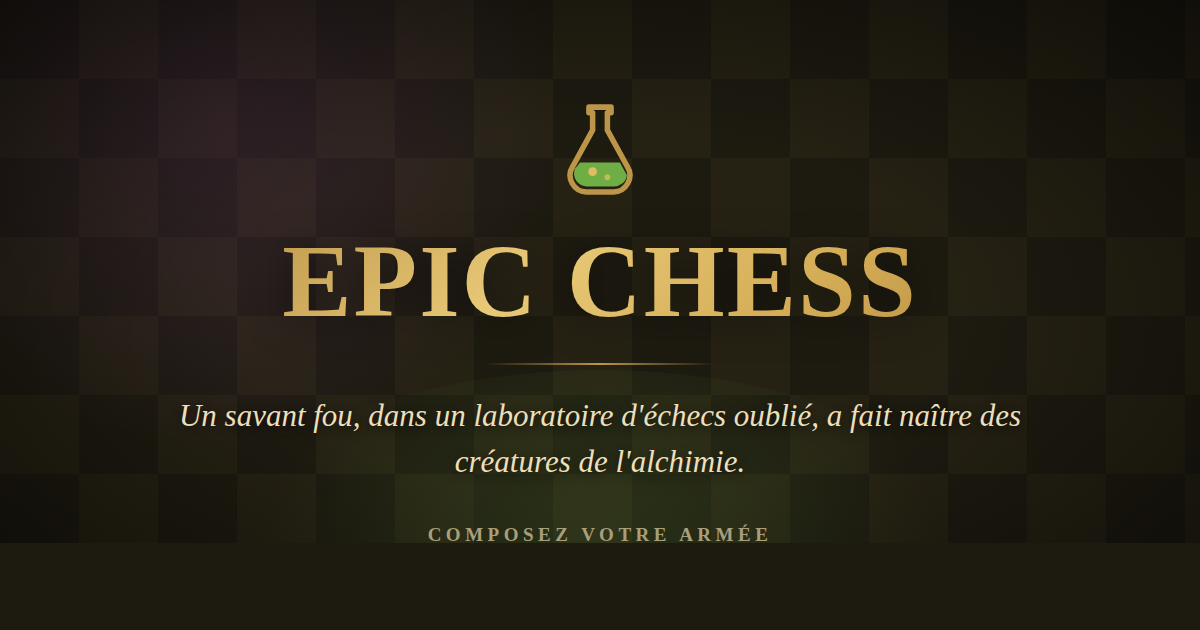
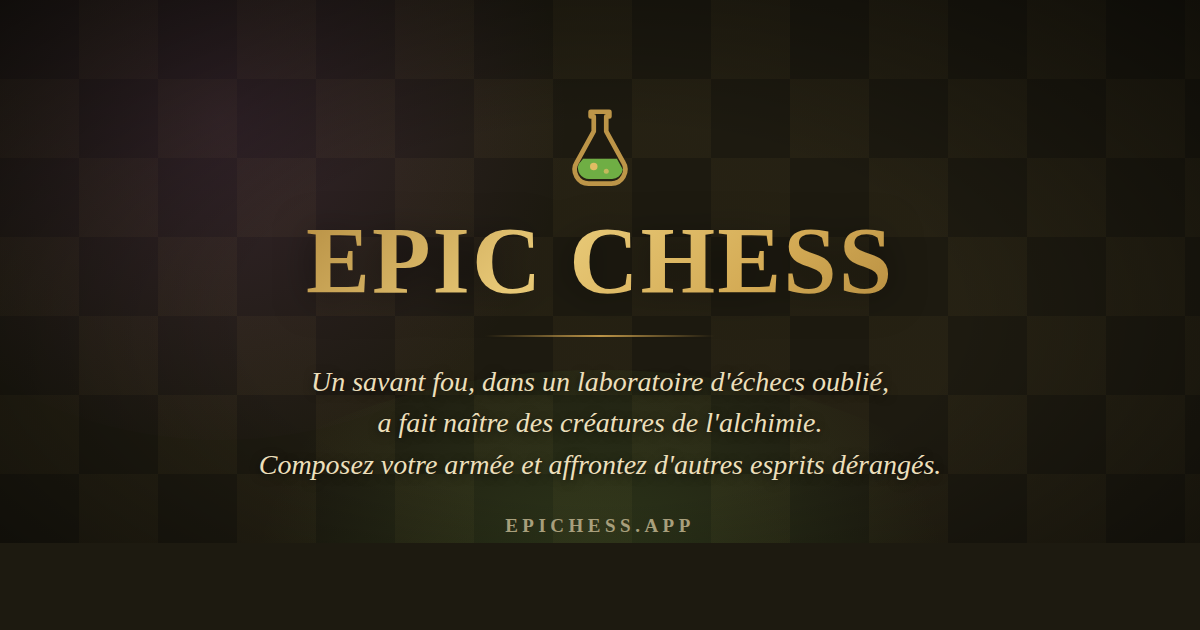
Reecrit la fiche de presentation et corrige les assets
Fiche de presentation reformulee : description resserree, et les cinq
classes decrites par ce qui les distingue en jeu plutot que par des
exemples de creatures. La Brute devient "deplacement puissant, pouvoir
faible" et le Sorcier "capacites avancees, mobilite reduite", ce qui
contredisait la formulation precedente : le JSON-LD et llms.txt sont
mis a jour en consequence, sans quoi les moteurs de reponse citeraient
des definitions fausses.

Reponse a "Comment compose-t-on son armee ?" raccourcie, dans le HTML
visible et dans le FAQPage (les deux doivent rester identiques).

Tirets longs retires de tout le texte public (fiche, FAQ, JSON-LD,
llms.txt, title et Open Graph). Ceux des commentaires de code sont
conserves, le reste du depot les utilise deja.

og-image.png : la seconde phrase de l'accroche etait absente. Les deux
phrases sont maintenant affichees sur trois lignes a coupure forcee, et
le domaine remplace le libelle redondant en bas.

apple-touch-icon.png : l'asset etait tronque. En cause, le navigateur
headless qui elargit silencieusement les fenetres de moins de ~500 px et
produisait une capture coupee. Rendu en 360 px avec un facteur d'echelle
de 0,5 pour un 180x180 correct ; le piege est note dans le README.
L'icone est conservee car elle sert a l'ecran d'accueil iOS.

Claude-Session: https://claude.ai/code/session_01Nt2syRCxgwHz2NTJgqYGfx

diff --git a/index.html b/index.html
@@ -12,7 +12,7 @@
      Le bloc JSON-LD en bas de ce <head> sert aux résultats enrichis et
      aux moteurs de réponse IA (ChatGPT, Perplexity, AI Overviews).
      ============================================================ -->
-<title>Epic Chess — variante d'échecs alchimique : composez votre armée</title>
+<title>Epic Chess, variante d'échecs alchimique : composez votre armée</title>
 <meta name="description" content="Un savant fou, dans un laboratoire d'échecs oublié, a fait naître des créatures de l'alchimie. Composez votre armée et affrontez d'autres esprits dérangés."/>
 <link rel="canonical" href="https://epichess.app/"/>
 <meta name="robots" content="index,follow,max-snippet:-1,max-image-preview:large,max-video-preview:-1"/>
@@ -21,7 +21,7 @@
 
 <!-- Open Graph / Twitter — aperçus de partage (Discord, X, WhatsApp, iMessage) -->
 <meta property="og:site_name" content="Epic Chess"/>
-<meta property="og:title" content="Epic Chess — variante d'échecs alchimique"/>
+<meta property="og:title" content="Epic Chess, variante d'échecs alchimique"/>
 <meta property="og:description" content="Un savant fou, dans un laboratoire d'échecs oublié, a fait naître des créatures de l'alchimie. Composez votre armée et affrontez d'autres esprits dérangés."/>
 <meta property="og:type" content="website"/>
 <meta property="og:url" content="https://epichess.app/"/>
@@ -29,9 +29,9 @@
 <meta property="og:image" content="https://epichess.app/og-image.png"/>
 <meta property="og:image:width" content="1200"/>
 <meta property="og:image:height" content="630"/>
-<meta property="og:image:alt" content="Epic Chess — un échiquier alchimique dans un laboratoire abandonné"/>
+<meta property="og:image:alt" content="Epic Chess, un échiquier alchimique dans un laboratoire abandonné"/>
 <meta name="twitter:card" content="summary_large_image"/>
-<meta name="twitter:title" content="Epic Chess — variante d'échecs alchimique"/>
+<meta name="twitter:title" content="Epic Chess, variante d'échecs alchimique"/>
 <meta name="twitter:description" content="Un savant fou, dans un laboratoire d'échecs oublié, a fait naître des créatures de l'alchimie. Composez votre armée et affrontez d'autres esprits dérangés."/>
 <meta name="twitter:image" content="https://epichess.app/og-image.png"/>
 
@@ -59,7 +59,7 @@
       "@id": "https://epichess.app/#game",
       "name": "Epic Chess",
       "url": "https://epichess.app/",
-      "description": "Epic Chess est une variante d'échecs gratuite jouable dans le navigateur. Dans un laboratoire d'alchimie abandonné, un savant fou a mêlé les pièces d'un jeu d'échecs à des créatures alchimiques. Avant chaque partie, le joueur compose son armée — 1 Monarque, 1 Général et 3 créatures — dans une limite de 24 points, puis affronte une IA sur un échiquier classique 8×8.",
+      "description": "Epic Chess est une variante d'échecs gratuite jouable dans le navigateur. Dans un laboratoire d'alchimie abandonné, un savant fou a mêlé les pièces d'un jeu d'échecs à des créatures alchimiques. Avant chaque partie, le joueur compose son armée de 5 pièces (1 Monarque, 1 Général et 3 créatures) dans une limite de 24 points, puis affronte une IA sur un échiquier classique 8×8.",
       "inLanguage": "fr",
       "image": "https://epichess.app/og-image.png",
       "genre": ["Jeu de stratégie", "Variante d'échecs", "Jeu de réflexion"],
@@ -74,11 +74,11 @@
         "availability": "https://schema.org/InStock"
       },
       "gameItem": [
-        {"@type": "Thing", "name": "Monarque", "description": "La pièce à protéger : sa perte fait perdre la partie. Roi ou Empereur."},
-        {"@type": "Thing", "name": "Général", "description": "La pièce maîtresse de l'armée. Dame, Amazone, Chevaucheur de Rhinocéros ou Grand Maître."},
-        {"@type": "Thing", "name": "Primordiale", "description": "Les pièces d'échecs classiques revisitées : Cavalier, Fou et Tour primordiaux."},
-        {"@type": "Thing", "name": "Brute", "description": "Créatures de mêlée aux déplacements courts et agressifs, comme l'Alpha ou la Fourmi."},
-        {"@type": "Thing", "name": "Sorcier", "description": "Créatures à capacités spéciales, comme la Méduse, la Banshee ou le Prêtre."}
+        {"@type": "Thing", "name": "Monarque", "description": "L'équivalent du roi, la pièce à protéger. Roi ou Empereur."},
+        {"@type": "Thing", "name": "Général", "description": "L'équivalent de la dame, la pièce maîtresse. Dame, Amazone, Chevaucheur de Rhinocéros ou Grand Maître."},
+        {"@type": "Thing", "name": "Primordiale", "description": "Les pièces d'échecs classiques : Cavalier, Fou et Tour."},
+        {"@type": "Thing", "name": "Brute", "description": "Les pièces ayant un déplacement puissant, mais un pouvoir faible, comme l'Alpha ou la Fourmi."},
+        {"@type": "Thing", "name": "Sorcier", "description": "Les pièces possédant des capacités spéciales avancées, mais à la mobilité réduite, comme la Méduse, la Banshee ou le Prêtre."}
       ]
     },
     {
@@ -107,7 +107,7 @@
           "name": "Comment compose-t-on son armée dans Epic Chess ?",
           "acceptedAnswer": {
             "@type": "Answer",
-            "text": "Chaque armée compte 5 pièces choisies par le joueur : 1 Monarque, 1 Général et 3 créatures libres, le tout dans une limite de 24 points. Chaque pièce a un coût lié à sa puissance — la Dame vaut 10 points, le Grand Maître 13, l'Alpha seulement 2. Une armée puissante en tête coûte donc cher et laisse moins de points pour le reste : c'est là tout l'arbitrage du jeu."
+            "text": "Chaque armée compte 5 pièces choisies par le joueur : 1 Monarque, 1 Général et 3 créatures, le tout dans une limite de 24 points. Chaque pièce a un coût lié à sa puissance."
           }
         },
         {
@@ -115,7 +115,7 @@
           "name": "Combien de pièces différentes existe-t-il dans Epic Chess ?",
           "acceptedAnswer": {
             "@type": "Answer",
-            "text": "Le catalogue compte 32 pièces réparties en 5 classes : Monarque, Général, Primordiale, Brute et Sorcier. Chacune possède son propre schéma de déplacement et, pour beaucoup, une capacité spéciale — la Méduse, la Banshee ou le Prêtre ne se contentent pas de se déplacer et de capturer."
+            "text": "Le catalogue compte 32 pièces réparties en 5 classes : Monarque, Général, Primordiale, Brute et Sorcier. Chacune possède son propre schéma de déplacement et, pour beaucoup, une capacité spéciale. Les Brutes ont un déplacement puissant mais un pouvoir faible, tandis que les Sorciers disposent de capacités avancées avec une mobilité réduite."
           }
         },
         {
@@ -123,7 +123,7 @@
           "name": "Contre qui joue-t-on à Epic Chess ?",
           "acceptedAnswer": {
             "@type": "Answer",
-            "text": "Les parties se jouent contre une IA appelée l'Instructeur, déclinée en 7 niveaux, de l'Instructeur Poussière — qui joue presque au hasard — à l'Instructeur Or, qui calcule une dizaine de secondes par coup. Le Mode Tournoi enchaîne plusieurs combats d'affilée contre des adversaires de plus en plus aguerris."
+            "text": "Les parties se jouent contre une IA appelée l'Instructeur, déclinée en 7 niveaux, de l'Instructeur Poussière, qui joue presque au hasard, à l'Instructeur Or, qui calcule une dizaine de secondes par coup. Le Mode Tournoi enchaîne plusieurs combats d'affilée contre des adversaires de plus en plus aguerris."
           }
         },
         {
@@ -147,7 +147,7 @@
           "name": "Faut-il savoir jouer aux échecs pour jouer à Epic Chess ?",
           "acceptedAnswer": {
             "@type": "Answer",
-            "text": "Non. Le plateau reste un 8×8 classique et les règles de base — échec, échec et mat, promotion des pions — sont celles des échecs traditionnels, mais chaque créature affiche son déplacement et sa capacité directement sur sa carte. Les premiers niveaux d'Instructeur sont conçus pour apprendre en jouant."
+            "text": "Non. Le plateau reste un 8×8 classique et les règles de base (échec, échec et mat, promotion des pions) sont celles des échecs traditionnels, mais chaque créature affiche son déplacement et sa capacité directement sur sa carte. Les premiers niveaux d'Instructeur sont conçus pour apprendre en jouant."
           }
         }
       ]
@@ -217,18 +217,18 @@
          ============================================================ -->
     <section class="lore" aria-labelledby="lore-title">
       <h2 class="lore-h" id="lore-title">Qu'est-ce qu'Epic Chess ?</h2>
-      <p><strong>Epic Chess</strong> est une variante d'échecs gratuite, jouable directement dans le navigateur, sans téléchargement ni adresse e-mail. Dans un laboratoire d'alchimie abandonné, un savant fou a mêlé les pièces d'un jeu d'échecs ordinaire à des créatures nées de ses expériences. Le plateau reste un 8×8 classique : c'est l'armée qui change.</p>
-      <p>Avant chaque partie, vous <strong>composez la vôtre</strong> — 1 Monarque, 1 Général et 3 créatures libres, dans une limite de 24 points. Le catalogue compte 32 pièces réparties en cinq classes, chacune avec son déplacement et sa capacité propres.</p>
+      <p><strong>Epic Chess</strong> est une variante d'échecs gratuite, jouable directement dans le navigateur. Dans un laboratoire d'alchimie abandonné, un savant fou a mêlé les pièces d'un jeu d'échecs ordinaire à des créatures nées de ses expériences. Le plateau reste un 8×8 classique.</p>
+      <p>Avant chaque partie, vous <strong>composez votre armée</strong> dans une limite de 24 points. Le catalogue compte 32 pièces réparties en cinq classes, chacune avec son déplacement et sa capacité propres.</p>
 
       <ul class="lore-list">
-        <li><strong>Monarque</strong> — la pièce à protéger : la perdre, c'est perdre la partie.</li>
-        <li><strong>Général</strong> — la pièce maîtresse, de l'Amazone au Grand Maître.</li>
-        <li><strong>Primordiale</strong> — les classiques revisités : Cavalier, Fou et Tour.</li>
-        <li><strong>Brute</strong> — la mêlée, courte et agressive, comme l'Alpha ou la Fourmi.</li>
-        <li><strong>Sorcier</strong> — les capacités spéciales : Méduse, Banshee, Prêtre.</li>
+        <li><strong>Monarque</strong> : l'équivalent du roi, la pièce à protéger.</li>
+        <li><strong>Général</strong> : l'équivalent de la dame, la pièce maîtresse.</li>
+        <li><strong>Primordiale</strong> : les pièces classiques : Cavalier, Fou et Tour.</li>
+        <li><strong>Brute</strong> : les pièces ayant un déplacement puissant, mais un pouvoir faible.</li>
+        <li><strong>Sorcier</strong> : les pièces possédant des capacités spéciales avancées, mais à la mobilité réduite.</li>
       </ul>
 
-      <p>Les parties se jouent contre l'Instructeur, une IA déclinée en 7 niveaux. Chaque combat fait évoluer votre ELO le long de la <strong>Voie des Victoires</strong> — Poussière, Pierre, Bronze, Acier, Obsidienne, Argent, Or Légendaire — et chaque palier franchi débloque de nouvelles créatures.</p>
+      <p>Les parties se jouent contre l'Instructeur, une IA déclinée en 7 niveaux. Chaque combat fait évoluer votre ELO le long de la <strong>Voie des Victoires</strong> et débloque de nouvelles créatures.</p>
 
       <h2 class="lore-h">Questions fréquentes</h2>
 
@@ -239,17 +239,17 @@
 
       <details class="lore-faq">
         <summary>Faut-il savoir jouer aux échecs ?</summary>
-        <p>Non. Le plateau reste un 8×8 classique et les règles de base — échec, échec et mat, promotion des pions — sont celles des échecs traditionnels, mais chaque créature affiche son déplacement et sa capacité directement sur sa carte. Les premiers niveaux d'Instructeur sont conçus pour apprendre en jouant.</p>
+        <p>Non. Le plateau reste un 8×8 classique et les règles de base (échec, échec et mat, promotion des pions) sont celles des échecs traditionnels, mais chaque créature affiche son déplacement et sa capacité directement sur sa carte. Les premiers niveaux d'Instructeur sont conçus pour apprendre en jouant.</p>
       </details>
 
       <details class="lore-faq">
         <summary>Comment compose-t-on son armée ?</summary>
-        <p>Chaque armée compte 5 pièces choisies par le joueur : 1 Monarque, 1 Général et 3 créatures libres, le tout dans une limite de 24 points. Chaque pièce a un coût lié à sa puissance — la Dame vaut 10 points, le Grand Maître 13, l'Alpha seulement 2. Une armée puissante en tête coûte donc cher et laisse moins de points pour le reste : c'est là tout l'arbitrage du jeu.</p>
+        <p>Chaque armée compte 5 pièces choisies par le joueur : 1 Monarque, 1 Général et 3 créatures, le tout dans une limite de 24 points. Chaque pièce a un coût lié à sa puissance.</p>
       </details>
 
       <details class="lore-faq">
         <summary>Contre qui joue-t-on ?</summary>
-        <p>Les parties se jouent contre une IA appelée l'Instructeur, déclinée en 7 niveaux, de l'Instructeur Poussière — qui joue presque au hasard — à l'Instructeur Or, qui calcule une dizaine de secondes par coup. Le Mode Tournoi enchaîne plusieurs combats d'affilée contre des adversaires de plus en plus aguerris.</p>
+        <p>Les parties se jouent contre une IA appelée l'Instructeur, déclinée en 7 niveaux, de l'Instructeur Poussière, qui joue presque au hasard, à l'Instructeur Or, qui calcule une dizaine de secondes par coup. Le Mode Tournoi enchaîne plusieurs combats d'affilée contre des adversaires de plus en plus aguerris.</p>
       </details>
 
       <details class="lore-faq">

diff --git a/README.md b/README.md
@@ -83,9 +83,12 @@ Le domaine `https://epichess.app/` est codé en dur dans le `canonical`, les
 balises Open Graph, le JSON-LD, `robots.txt` et `sitemap.xml` — un
 changement de domaine impose un `grep epichess.app` global.
 
-`og-image.png` et `apple-touch-icon.png` sont générés à partir de rendus
-HTML (fiole + damier estompé, mêmes couleurs que le thème) ; les
-régénérer demande juste de refaire une capture 1200×630 et 180×180.
+`og-image.png` (1200×630) et `apple-touch-icon.png` (180×180) sont générés
+à partir de rendus HTML, aux couleurs du thème. Piège si vous les
+régénérez au navigateur headless : **une fenêtre de moins de ~500 px est
+silencieusement élargie**, et la capture ressort tronquée. Rendre en grand
+puis réduire via le facteur d'échelle (par exemple une fenêtre de 360 px
+avec un facteur 0,5 pour obtenir 180 px).
 
 ## Ordre de chargement (`index.html`, en bas de page)
 
